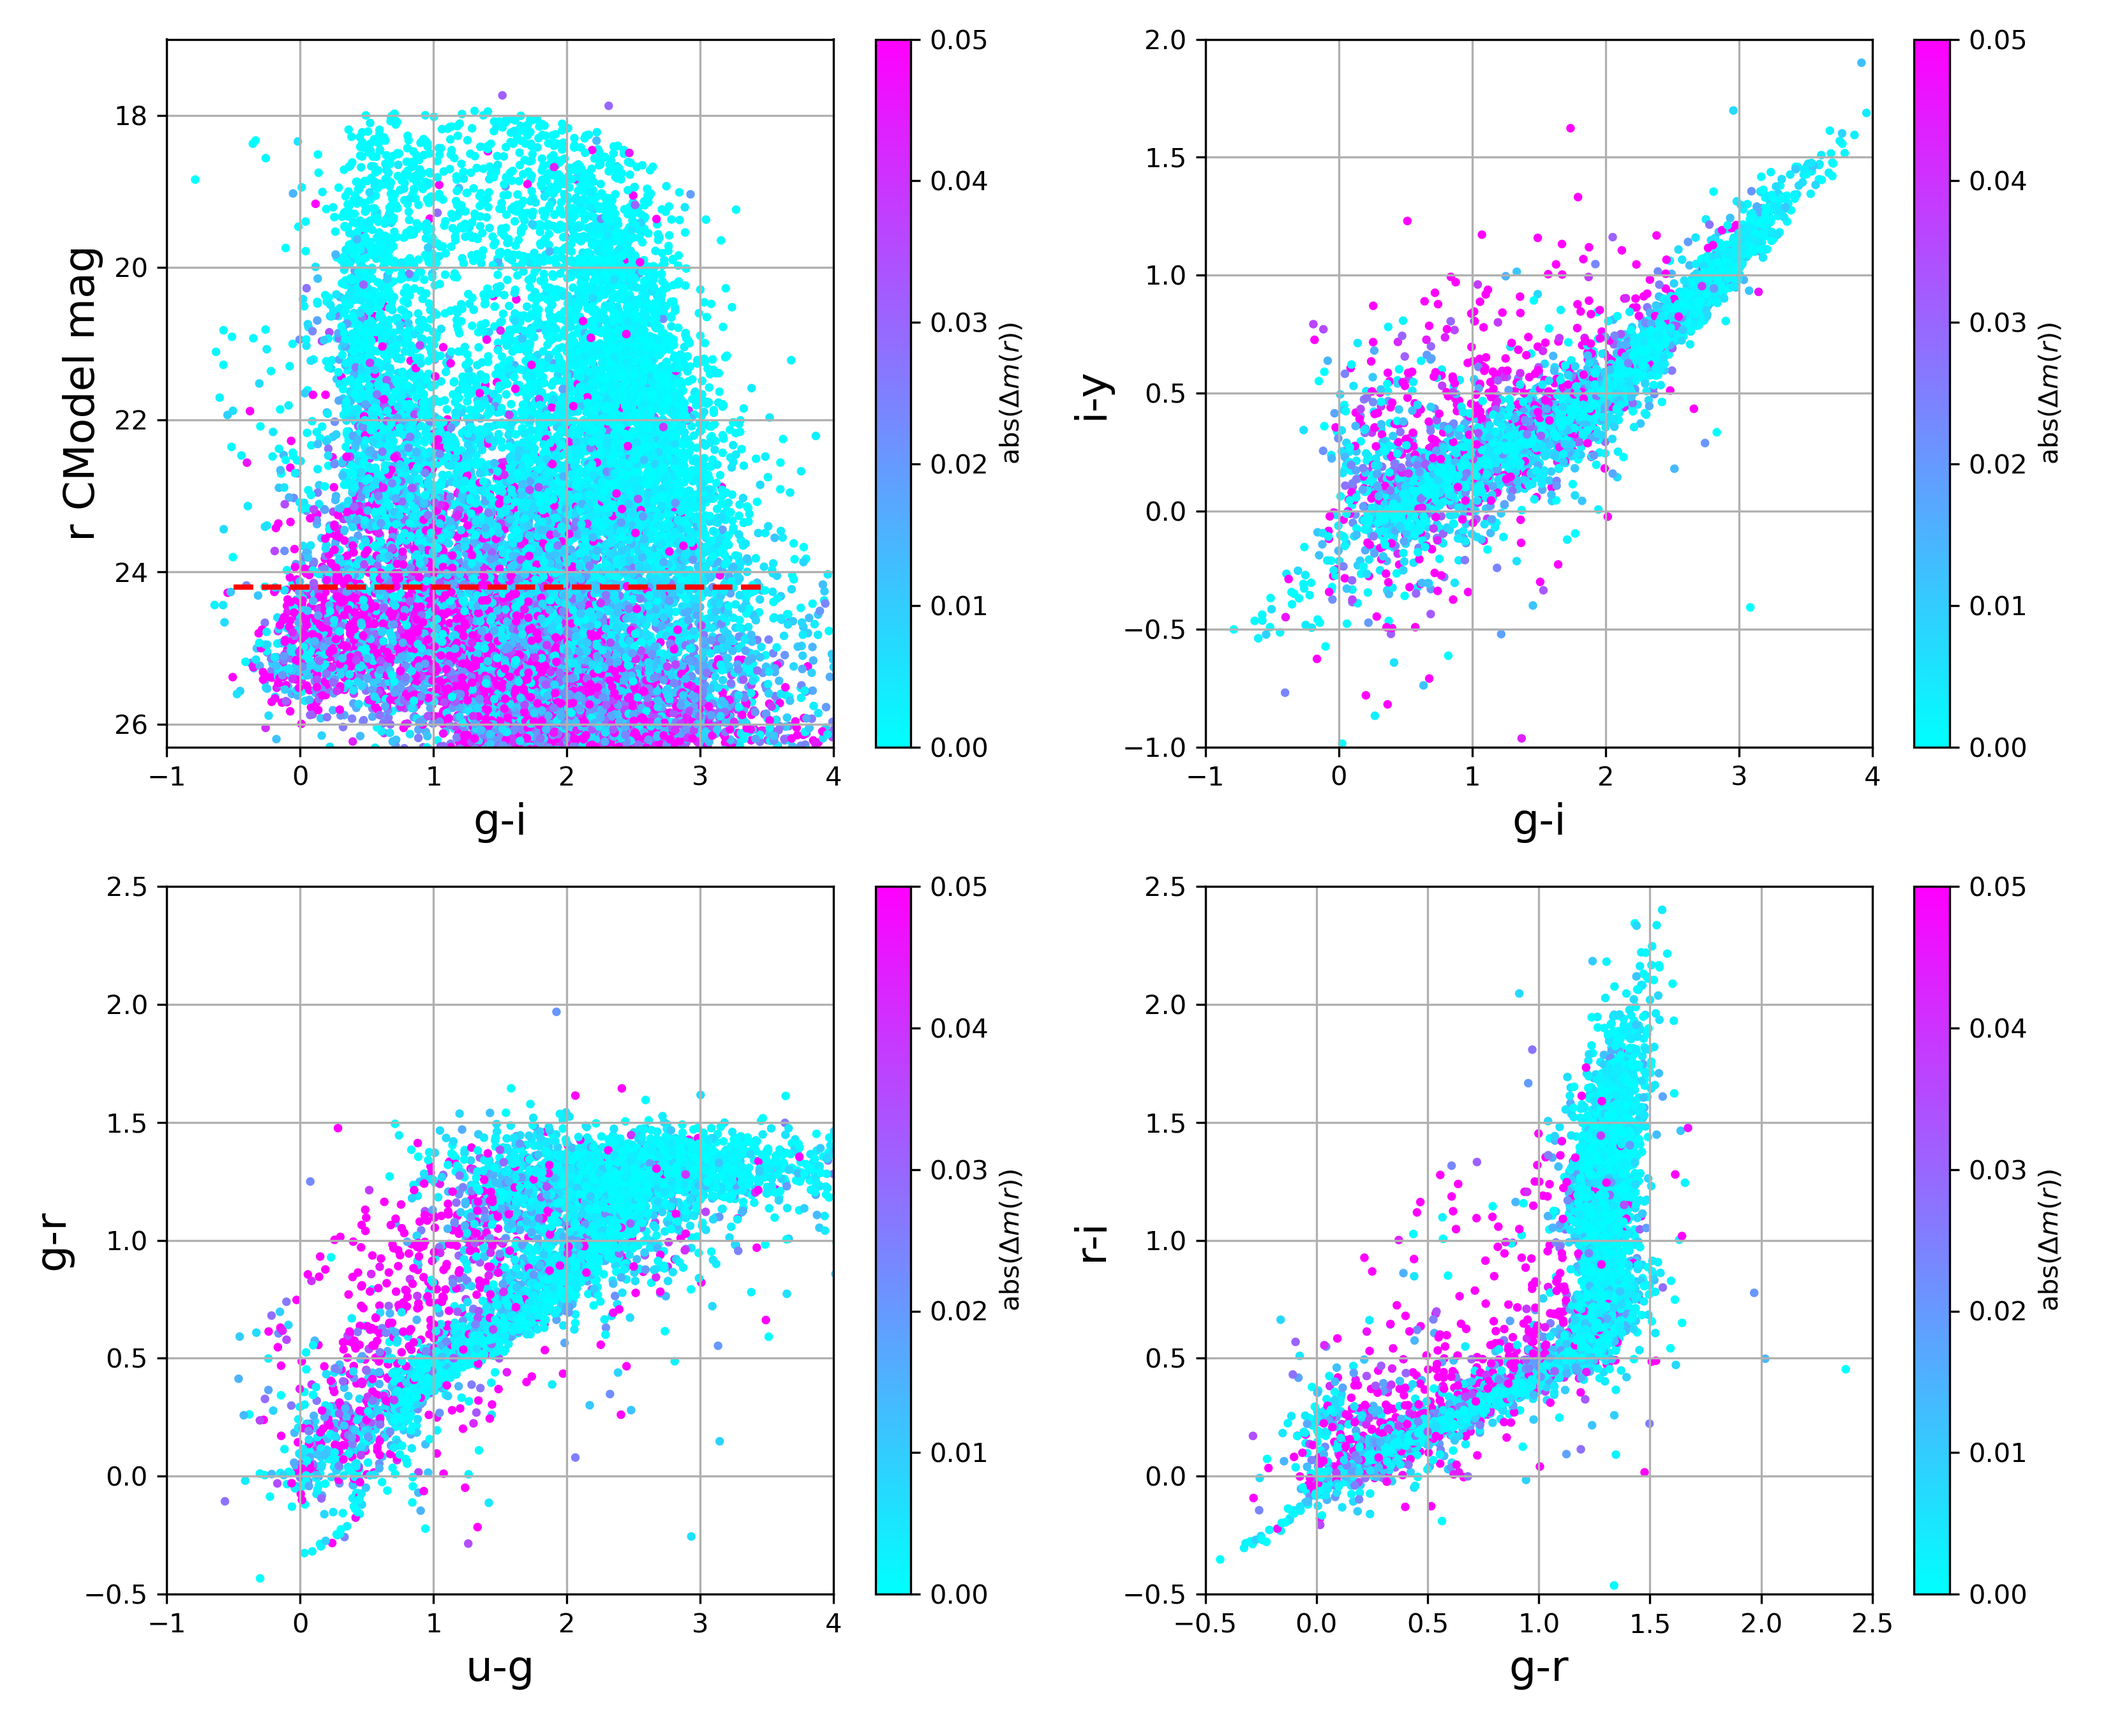
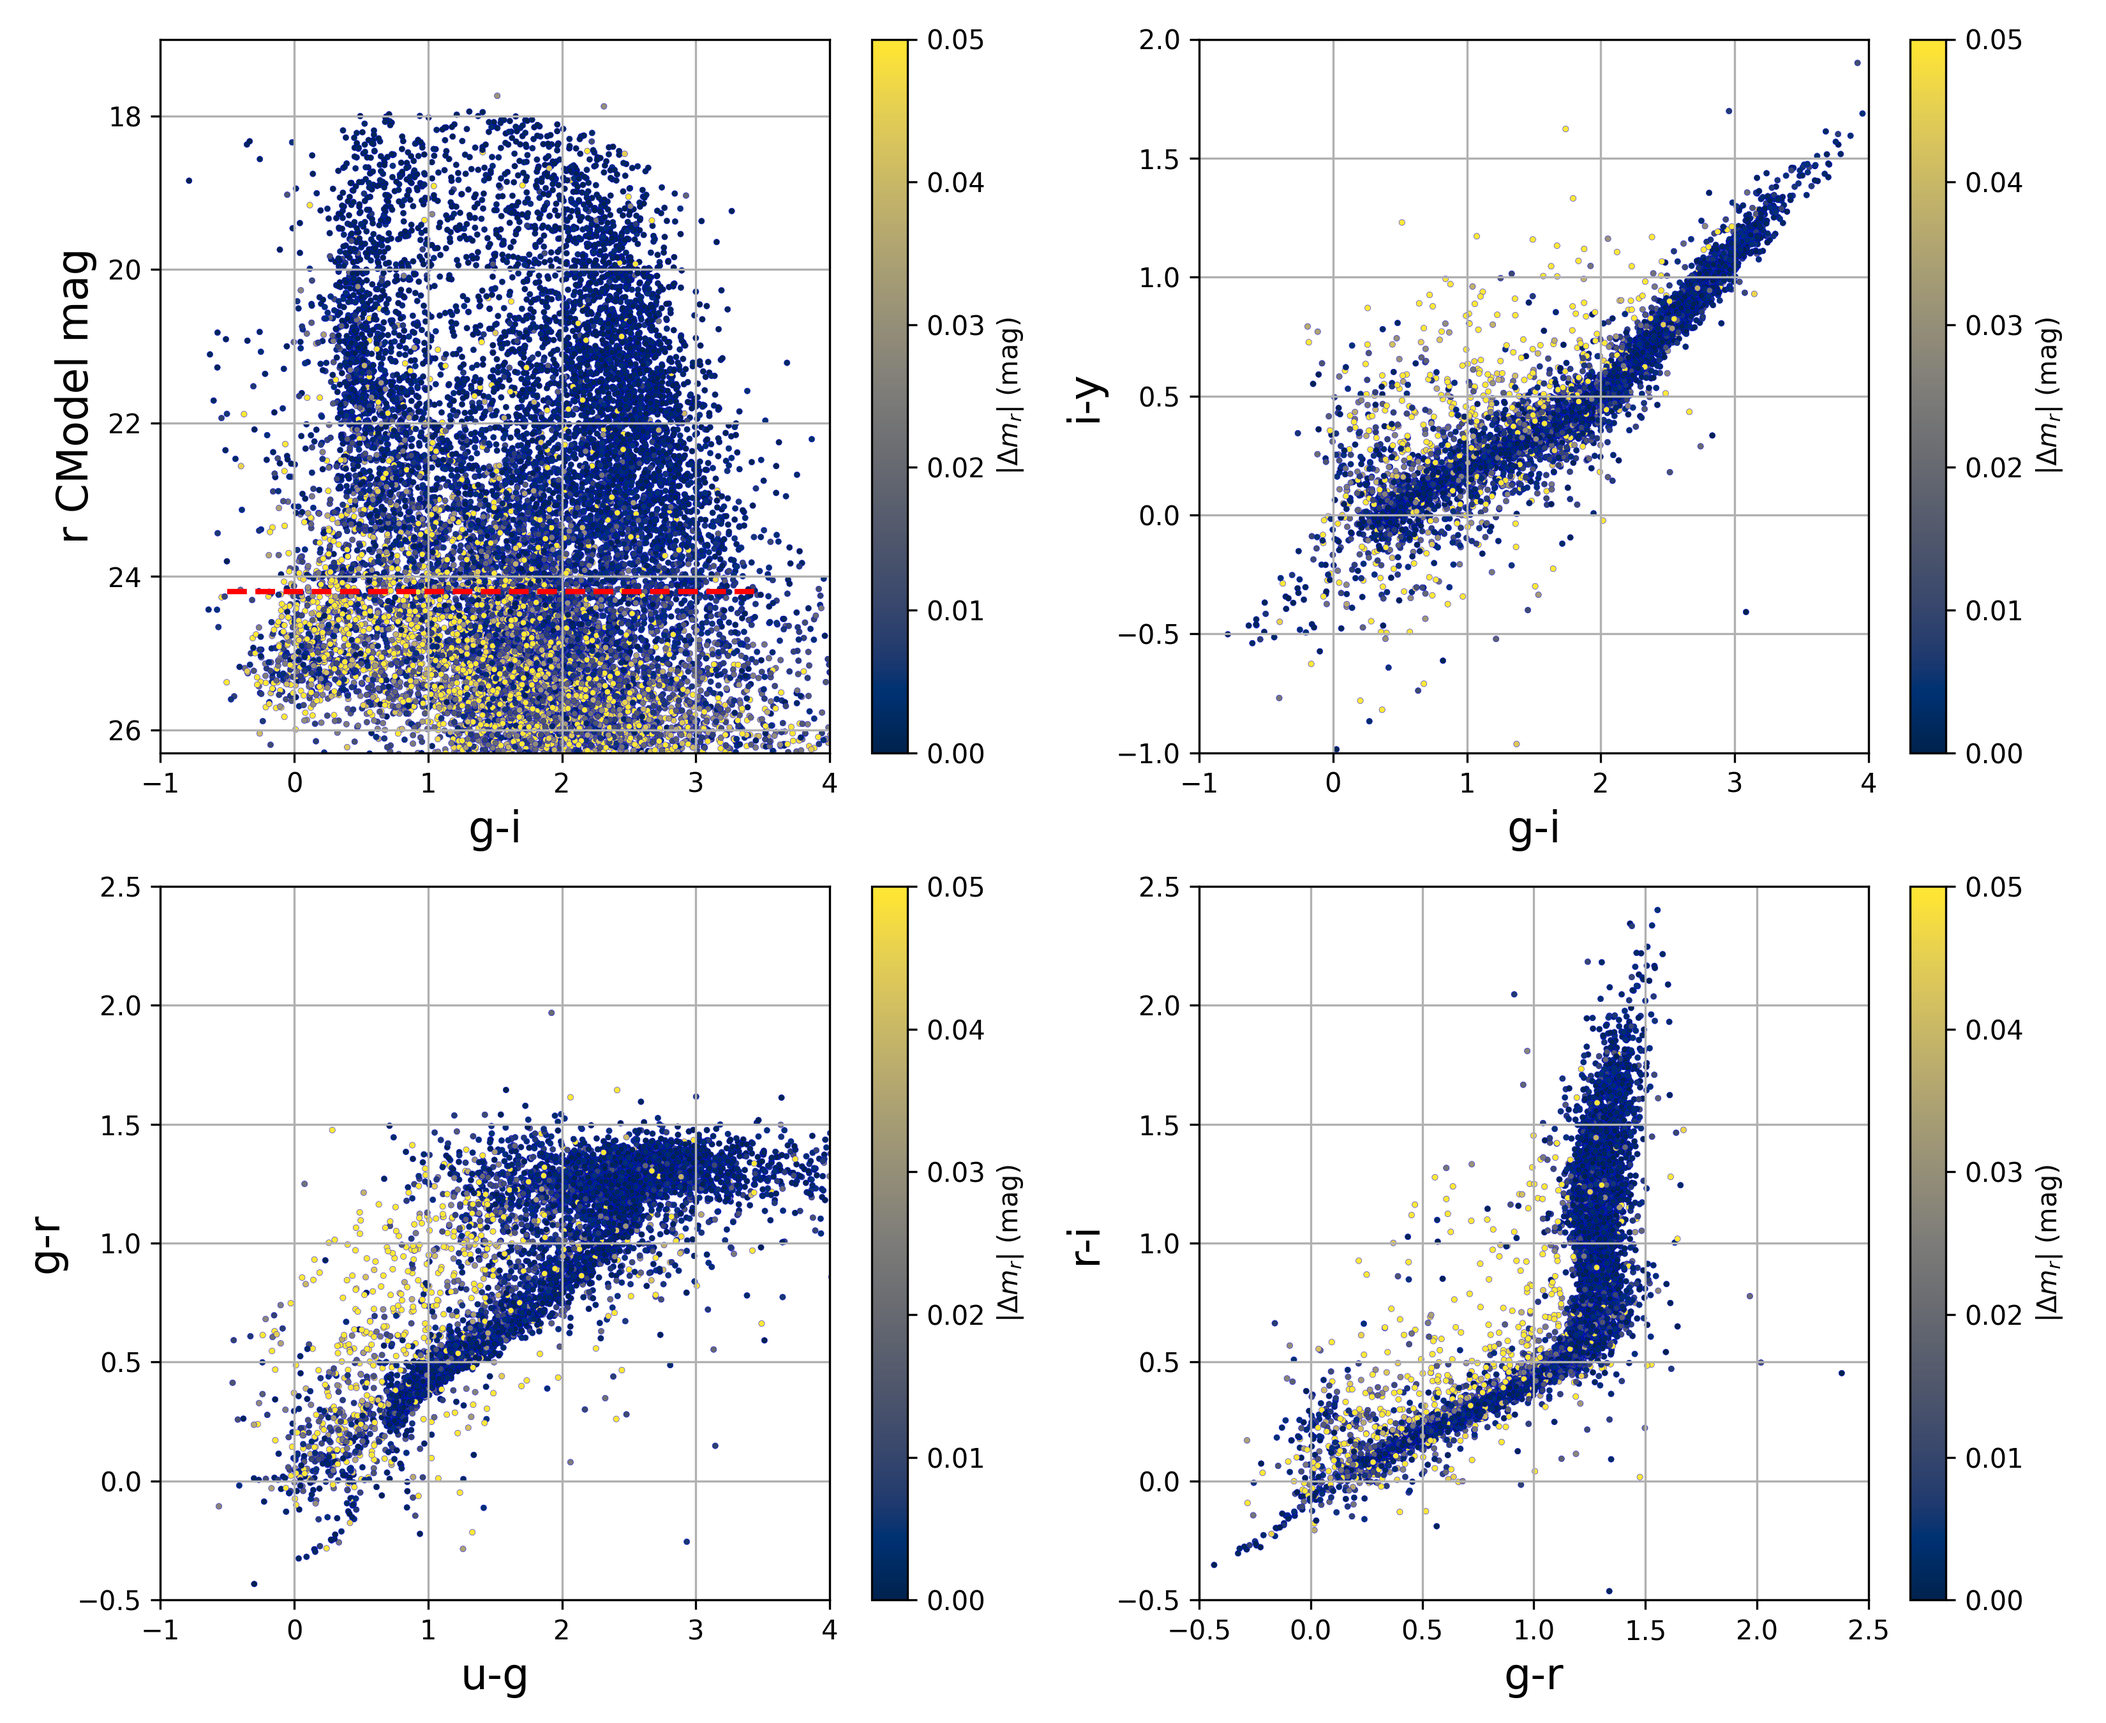
Update figures 6, 12 and 13
Use the reviewed blue-outlined Fig. 6 and current HST-based D figures. Match the D figure captions and magnitude ranges to the updated plots.

diff --git a/methodology.tex b/methodology.tex
@@ -285,7 +285,12 @@ Figure~\ref{fig:D-observed-distributions} shows the overlap between the HST star
 \begin{figure*}[t]
   \centering
   \includegraphics[width=0.9\textwidth,height=0.78\textheight,keepaspectratio]{D Distribution - r ri riz griz - mag 24-25.png}
-  \caption{Observed $D$ distributions of retained HST stars (blue) and HST galaxies (orange). Rows show the $r$, $ri$, $riz$, and $griz$ combinations, from top to bottom. The left and right columns correspond to $24 \leq r < 24.5$ and $24.5 \leq r < 25$, respectively. Histograms show object counts in bins of width $\Delta D = 0.25$, over $0 \leq D \leq 20$.}
+  \caption{Observed $D$ distributions of retained HST stars (blue) and HST
+    galaxies (orange). Rows show $r$, $ri$, $riz$, and $griz$; columns show
+    $24\leq r<24.5$ and $24.5\leq r<25$. Histograms show object counts in
+    bins of width $\Delta D=0.25$, over $0\leq D\leq10$.
+    Half-height vertical lines mark the theoretical $\chi_N$ 95\% thresholds:
+    $D=1.960$, $2.448$, $2.795$, and $3.080$ for the four rows, respectively.}
   \label{fig:D-observed-distributions}
 \end{figure*}
 
@@ -317,15 +322,26 @@ and contamination analogously to eqs.~\ref{eq:pSdm}-\ref{eq:contS}.
 
 Here we again use HST labels to evaluate completeness and contamination for the stellar multi-band $D$-based
 samples and compare them with the single-band performance. As before, we focus on the ``transition'' magnitude
-range, $24 < r < 24.5$.
+range, $24\leq r<25$, in two intervals, $24\leq r<24.5$ and
+$24.5\leq r<25$.
 
-XXX: SHOW RESULTS such as in Figure~\ref{fig:multiband1} (needs update with new Nirav's fits!) 
+Figure~\ref{fig:multiband1} compares the empirical performance of the
+different band combinations in these two magnitude intervals.
 
 
 \begin{figure*}
   \centering
   \includegraphics[width=\textwidth,height=0.82\textheight,keepaspectratio]{multibandFig1.png}
-  \caption{Place holder figure to demonstrate performance improvements for multi-band case. UPDATE! }
+  \caption{Empirical stellar completeness and galaxy contamination for
+    strict $D_B<D_{\rm cut}$ selections using $r$, $ri$, $riz$, and $griz$.
+    Left: $24\leq r<24.5$; right: $24.5\leq r<25$.
+    All curves within a panel use the same retained-HST reference sample
+    with valid $D$ in all required bands. The open circles mark
+    $D_{griz}<3$. Diamonds and squares mark $griz$ thresholds nearest
+    20\% and 50\% measured stellar completeness on a 0.1-spaced threshold
+    grid; the actual $D$ thresholds are labeled. Objects beyond the
+    Fig.~\ref{fig:D-observed-distributions} plotting window remain in the
+    completeness and contamination denominators.}
   \label{fig:multiband1}
 \end{figure*}
 
